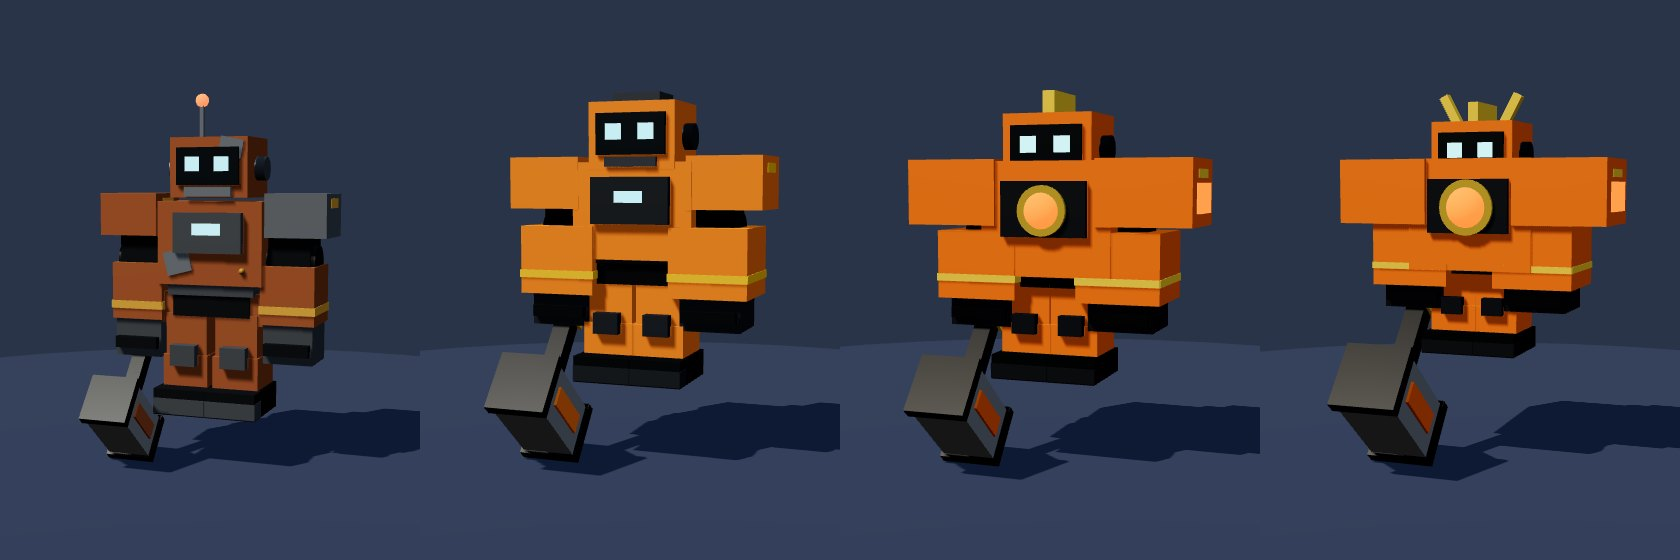
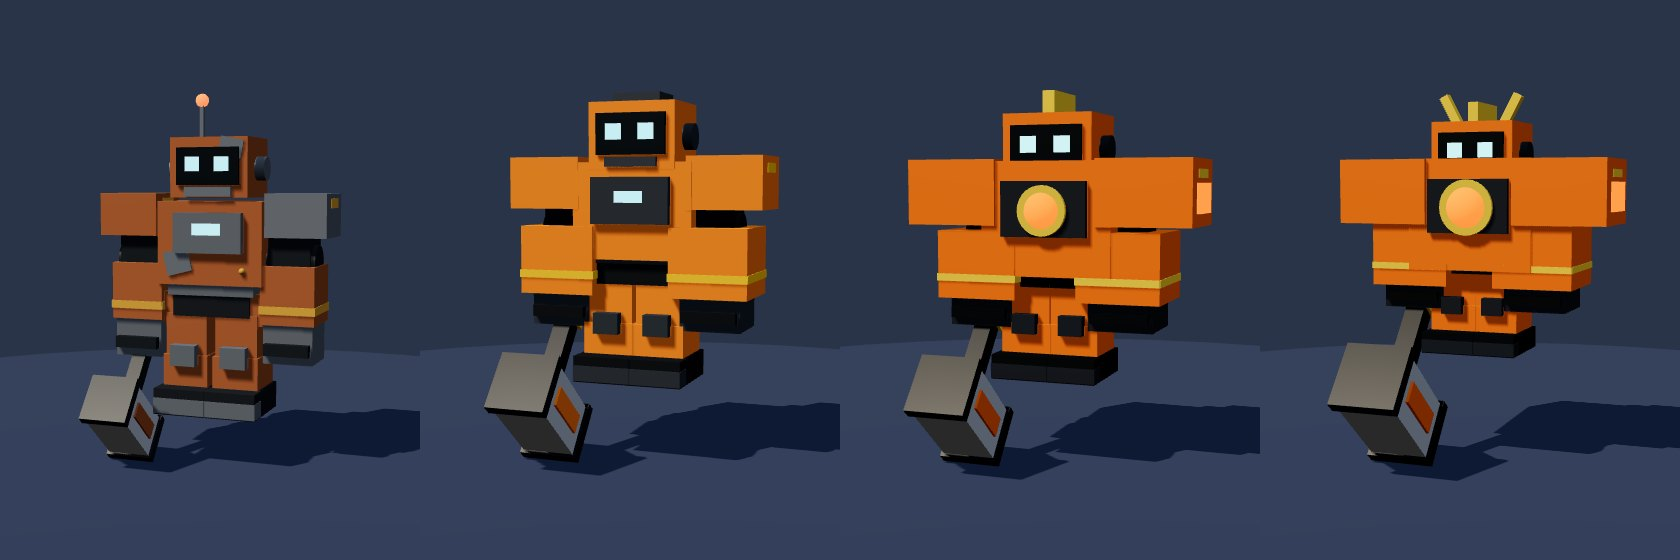
Re-render model images and link the 3D preview page
The README renders now use corrected metal shading (metal parts were
drawn near-black without an environment map), and the README links
the hosted preview page with the 3D mech viewer and UI style.

Claude-Session: https://claude.ai/code/session_01H9x8pRgfc9RETbM6YB4jgo

diff --git a/README.md b/README.md
@@ -11,6 +11,9 @@ yards, then rebirth for a permanent Scrap bonus.
 *Renders above come from the game's own builder code run outside Roblox and drawn with
 three.js. Roblox lighting (neon glow, shadows, sky) will look richer in Studio.*
 
+**Preview page** (3D mech viewer for every level, tool and finish, plus the UI style):
+https://claude.ai/artifact/3812iomkK3Lcw7M3c2kR34 (private to the owner until shared)
+
 ## Open it
 
 **Option A: just play.** Open `PickYourMech.rbxlx` in Roblox Studio and press **Play**.
